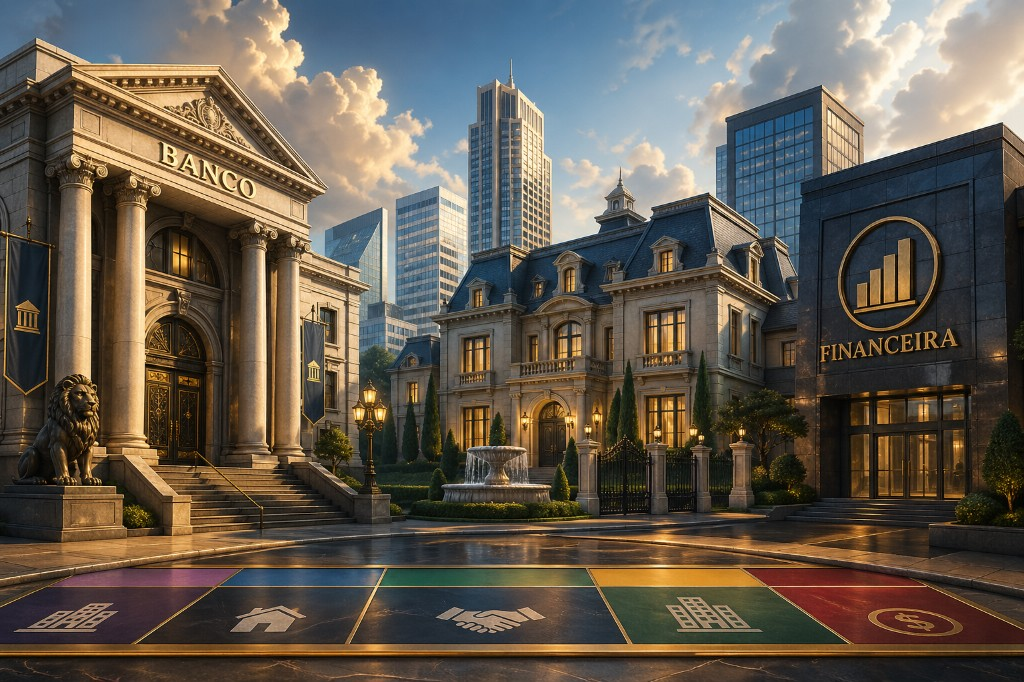
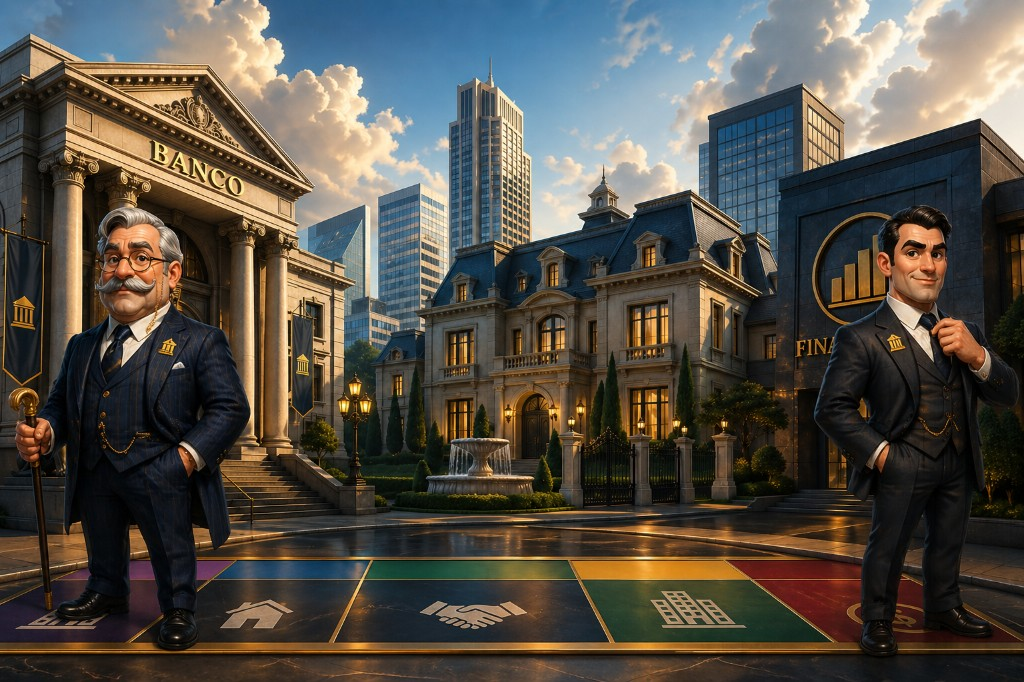
feat(lobby): fundo único com arte completa; remove camadas dos banqueiros
Made-with: Cursor

diff --git a/web/src/features/lobby/components/ServerSelection.tsx b/web/src/features/lobby/components/ServerSelection.tsx
@@ -5,9 +5,6 @@ import type { Room } from '../lobby.types';
 const glassPanel =
   'rounded-2xl border border-amber-900/30 bg-slate-950/[0.18] shadow-[0_0_40px_rgba(0,0,0,0.35)] backdrop-blur-md backdrop-saturate-125 ring-1 ring-amber-950/20';
 
-/** Arte com os dois banqueiros lado a lado — metade esquerda / metade direita em cada lateral */
-const BANKERS_FLANK_SRC = '/lobby-bankers-flank.png';
-
 interface ServerSelectionProps {
   rooms: Room[];
   onCreateRoom: () => void;
@@ -23,40 +20,10 @@ export const ServerSelection = ({ rooms, onCreateRoom, onJoinRoom, onDeleteRoom,
     <div className="relative flex min-h-screen flex-col items-center overflow-hidden px-4 py-8 md:px-6 md:py-10">
       <div className="absolute inset-0 bg-[#020617]" aria-hidden />
       <div
-        className="absolute inset-0 bg-cover bg-center bg-no-repeat md:bg-[position:center_25%]"
+        className="absolute inset-0 bg-cover bg-center bg-no-repeat md:bg-[position:center_22%]"
         style={{ backgroundImage: "url('/lobby-bg.png')" }}
         aria-hidden
       />
-
-      {/* Banqueiros: por cima da foto, por baixo dos scrims — mix-blend-screen “remove” o preto da arte */}
-      <div
-        aria-hidden
-        className="pointer-events-none absolute bottom-0 left-0 hidden h-[min(88vh,900px)] w-[clamp(64px,12vw,220px)] overflow-hidden lg:block xl:w-[clamp(80px,14vw,280px)]"
-      >
-        <div
-          className="absolute inset-0 mix-blend-screen contrast-[1.02] saturate-[1.05]"
-          style={{
-            backgroundImage: `url(${BANKERS_FLANK_SRC})`,
-            backgroundRepeat: 'no-repeat',
-            backgroundPosition: 'left bottom',
-            backgroundSize: '200% auto',
-          }}
-        />
-      </div>
-      <div
-        aria-hidden
-        className="pointer-events-none absolute bottom-0 right-0 hidden h-[min(88vh,900px)] w-[clamp(64px,12vw,220px)] overflow-hidden lg:block xl:w-[clamp(80px,14vw,280px)]"
-      >
-        <div
-          className="absolute inset-0 mix-blend-screen contrast-[1.02] saturate-[1.05]"
-          style={{
-            backgroundImage: `url(${BANKERS_FLANK_SRC})`,
-            backgroundRepeat: 'no-repeat',
-            backgroundPosition: 'right bottom',
-            backgroundSize: '200% auto',
-          }}
-        />
-      </div>
 
       <div
         className="pointer-events-none absolute inset-0 bg-gradient-to-b from-slate-950/50 via-slate-950/20 to-slate-950/70"

diff --git a/public/index.html b/public/index.html
@@ -8,8 +8,8 @@
     <link rel="manifest" href="/manifest.json" />
     <link rel="apple-touch-icon" href="/logo.png" />
     <title>Banco Digital</title>
-    <script type="module" crossorigin src="/assets/index-BEuBbQsv.js"></script>
-    <link rel="stylesheet" crossorigin href="/assets/index-BRCMuD8i.css">
+    <script type="module" crossorigin src="/assets/index-BbfU9HI7.js"></script>
+    <link rel="stylesheet" crossorigin href="/assets/index-BbMlpfM5.css">
   </head>
   <body>
     <div id="root"></div>
